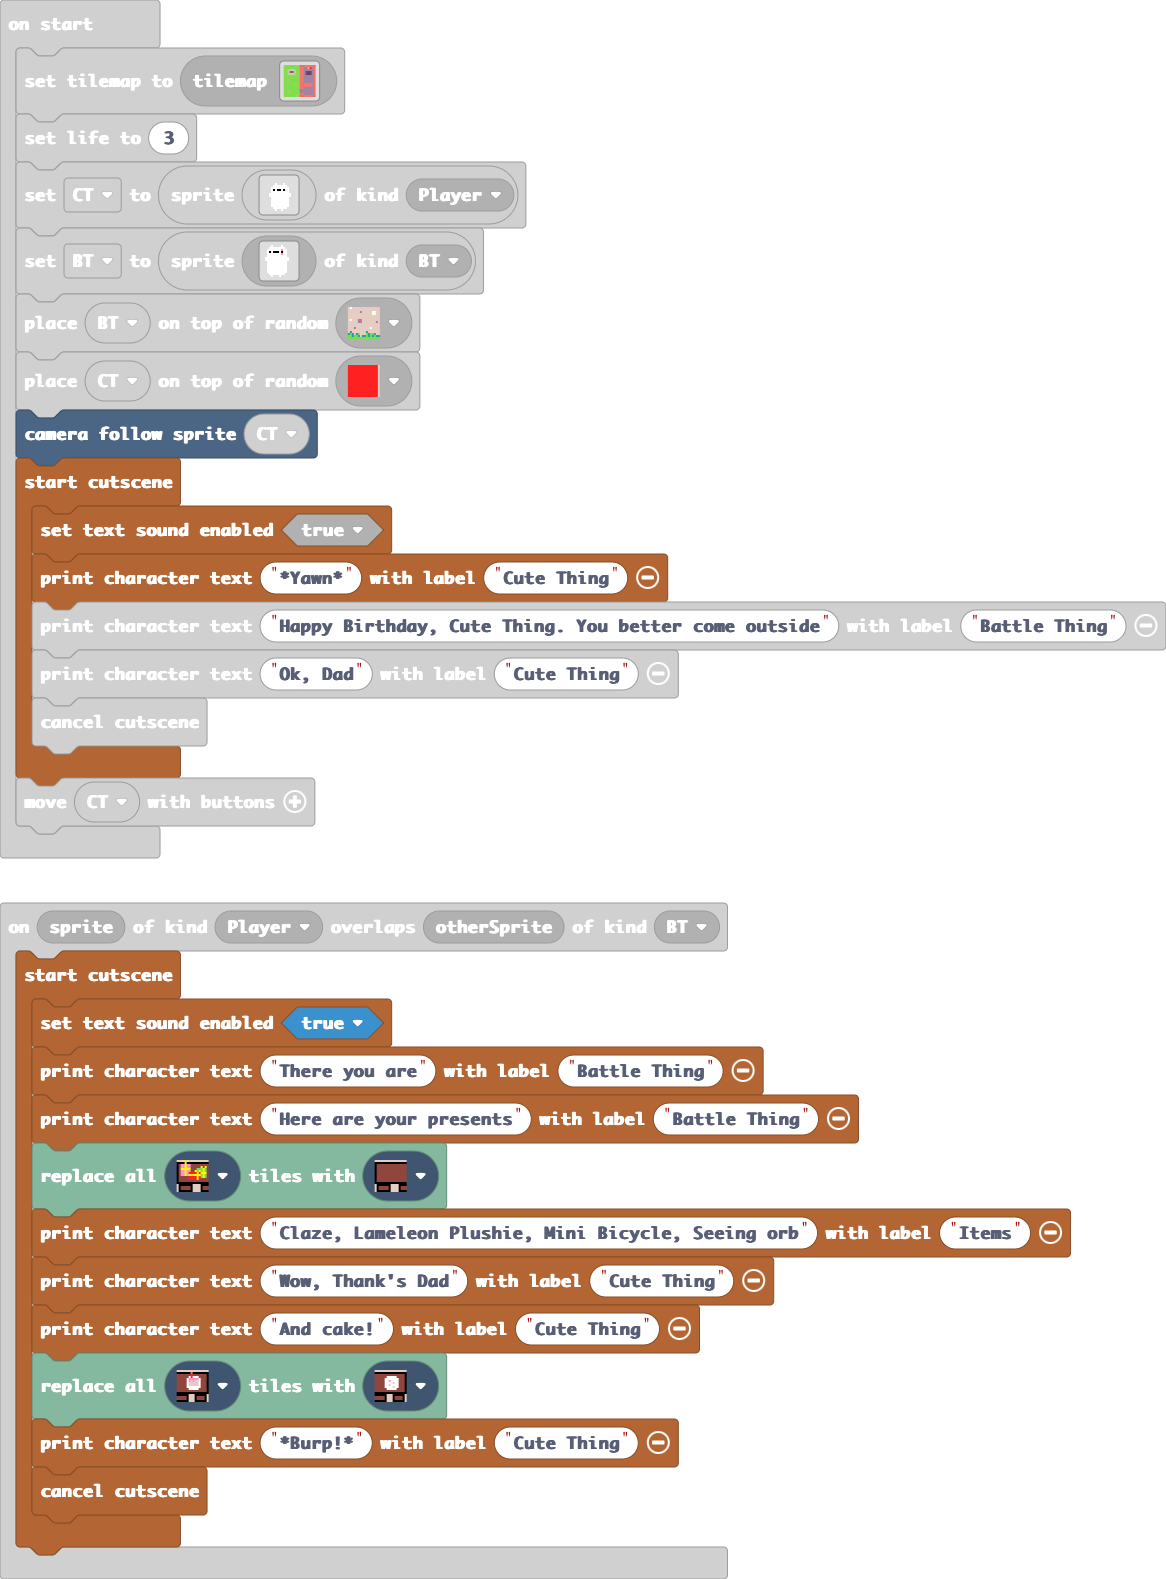
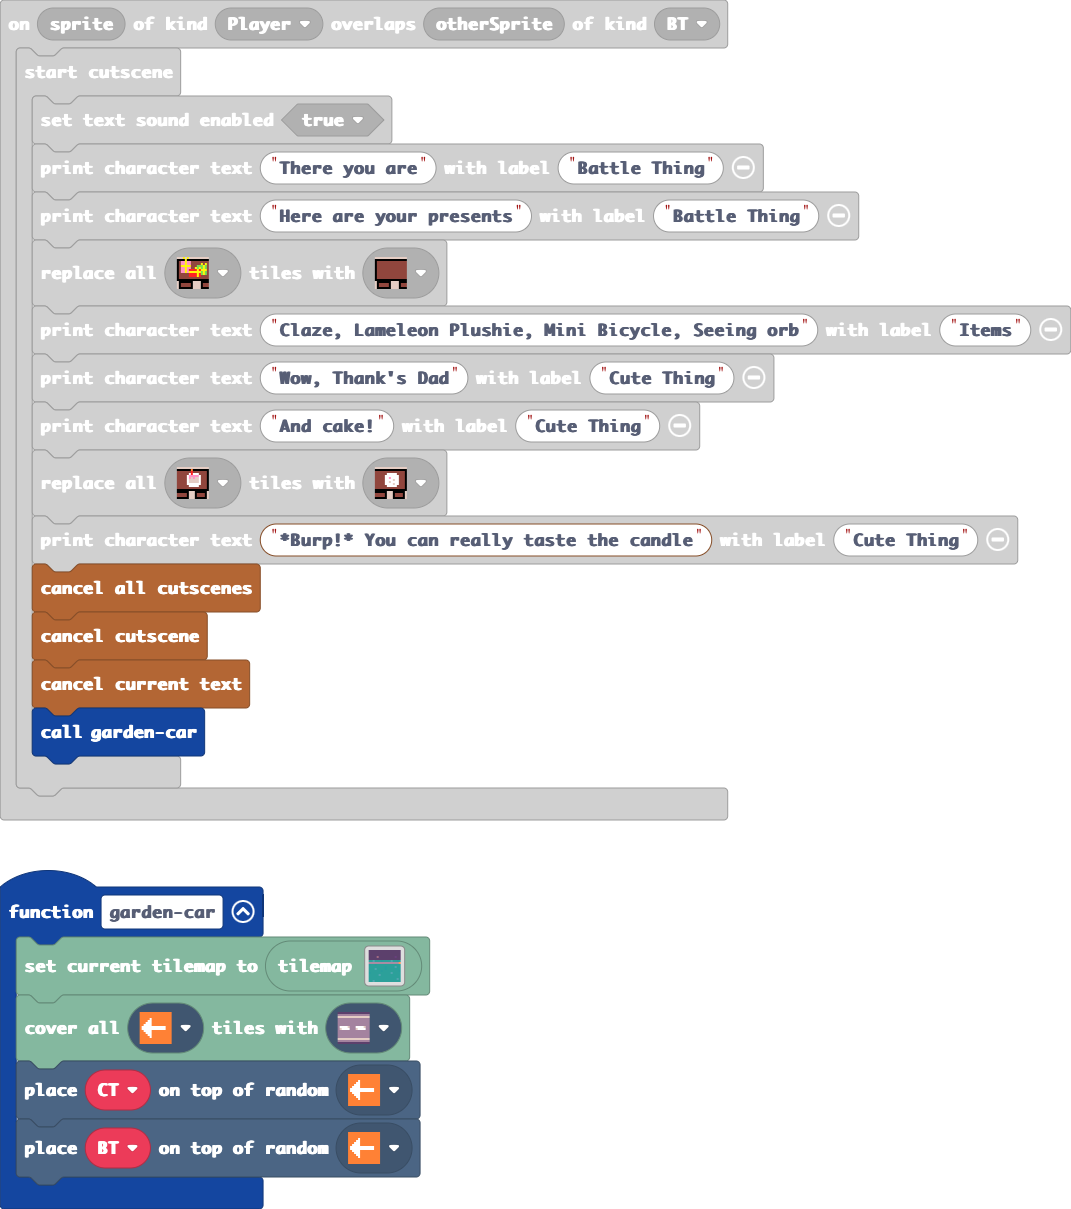
Update pxt.json, main.blocks, main.ts, tilemap.g.jres, tilemap.g.ts

diff --git a/tilemap.g.ts b/tilemap.g.ts
@@ -46,6 +46,12 @@ namespace myTiles {
     export const tile21 = image.ofBuffer(hex``);
     //% fixedInstance jres blockIdentity=images._tile
     export const tile22 = image.ofBuffer(hex``);
+    //% fixedInstance jres blockIdentity=images._tile
+    export const tile23 = image.ofBuffer(hex``);
+    //% fixedInstance jres blockIdentity=images._tile
+    export const tile24 = image.ofBuffer(hex``);
+    //% fixedInstance jres blockIdentity=images._tile
+    export const tile25 = image.ofBuffer(hex``);
 
     helpers._registerFactory("tilemap", function(name: string) {
         switch(helpers.stringTrim(name)) {
@@ -87,6 +93,63 @@ namespace myTiles {
 2 . . . . . . . 2 2 . . . . . 2 
 2 2 2 2 2 2 2 2 2 2 2 2 2 2 2 2 
 `, [myTiles.transparency16,myTiles.tile4,myTiles.tile5,myTiles.tile6,myTiles.tile3,myTiles.tile8,myTiles.tile12,myTiles.tile13,myTiles.tile14,myTiles.tile15,myTiles.tile16,myTiles.tile9,sprites.dungeon.stairSouth,sprites.dungeon.darkGroundNorthWest0,sprites.dungeon.darkGroundNorth,sprites.dungeon.darkGroundNorthEast0,sprites.dungeon.darkGroundSouthEast0,sprites.dungeon.darkGroundSouth,sprites.dungeon.darkGroundSouthWest0,myTiles.tile10,myTiles.tile11,sprites.castle.tilePath4,sprites.castle.tilePath1,sprites.castle.tilePath2,sprites.castle.tilePath3,sprites.castle.tilePath6,sprites.castle.tilePath9,sprites.castle.tilePath7,sprites.castle.tilePath8,sprites.castle.tileGrass3,myTiles.tile17,myTiles.tile20,sprites.castle.tileGrass2,sprites.castle.tileGrass1], TileScale.Sixteen);
+            case "level3":
+            case "level3":return tiles.createTilemap(hex`1000100000000000000000000000000000000000000000000000000000000000000000000000000000000000000000000000000000000000000000000000000000000000000000000000000000000000000000000000000000000000000000000000000000000000000000000000000000000000000000000000000000000000000000000000000000000000000000000000000000000000000000000000000000000000000000000000000000000000000000000000000000000000000000000000000000000000000000000000000000000000000000000000000000000000000000000000000000000000000000000000000000000000000000000000000000000000`, img`
+. . . . . . . . . . . . . . . . 
+. . . . . . . . . . . . . . . . 
+. . . . . . . . . . . . . . . . 
+. . . . . . . . . . . . . . . . 
+. . . . . . . . . . . . . . . . 
+. . . . . . . . . . . . . . . . 
+. . . . . . . . . . . . . . . . 
+. . . . . . . . . . . . . . . . 
+. . . . . . . . . . . . . . . . 
+. . . . . . . . . . . . . . . . 
+. . . . . . . . . . . . . . . . 
+. . . . . . . . . . . . . . . . 
+. . . . . . . . . . . . . . . . 
+. . . . . . . . . . . . . . . . 
+. . . . . . . . . . . . . . . . 
+. . . . . . . . . . . . . . . . 
+`, [myTiles.transparency16], TileScale.Sixteen);
+            case "level5":
+            case "level5":return tiles.createTilemap(hex`1000100000000000000000000000000000000000000000000000000000000000000000000000000000000000000000000000000000000000000000000000000000000000000000000000000000000000000000000000000000000000000000000000000000000000000000000000000000000000000000000000000000000000000000000000000000000000000000000000000000000000000000000000000000000000000000000000000000000000000000000000000000000000000000000000000000000000000000000000000000000000000000000000000000000000000000000000000000000000000000000000000000000000000000000000000000000000`, img`
+. . . . . . . . . . . . . . . . 
+. . . . . . . . . . . . . . . . 
+. . . . . . . . . . . . . . . . 
+. . . . . . . . . . . . . . . . 
+. . . . . . . . . . . . . . . . 
+. . . . . . . . . . . . . . . . 
+. . . . . . . . . . . . . . . . 
+. . . . . . . . . . . . . . . . 
+. . . . . . . . . . . . . . . . 
+. . . . . . . . . . . . . . . . 
+. . . . . . . . . . . . . . . . 
+. . . . . . . . . . . . . . . . 
+. . . . . . . . . . . . . . . . 
+. . . . . . . . . . . . . . . . 
+. . . . . . . . . . . . . . . . 
+. . . . . . . . . . . . . . . . 
+`, [myTiles.transparency16], TileScale.Sixteen);
+            case "level4":
+            case "level4":return tiles.createTilemap(hex`1000100004040404040404040404040404040404040404040404040404040404040404040404040404040404040404040404040404040404060404040404040404070404040404040404040404040404040404040303050303030203030303050303020301010101010101010101010101010108020303020303030303030303030303030303030303030303020303030305030303030305030303030203030303030303030303030303020303030303030303020203030303030303030303050303030303030303030503030303030303030303030303030303030303030303030303030303030303030303030303030303050303030503030303030303030303030303`, img`
+. . . . . . . . . . . . . . . . 
+. . . . . . . . . . . . . . . . 
+. . . . . . . . . . . . . . . . 
+. . . . . . . . . . . . . . . . 
+. . . . . . . . . . . . . . . . 
+2 2 2 2 2 2 2 2 2 2 2 2 2 2 2 2 
+. . . . . . . . . . . . . . . . 
+2 2 2 2 2 2 2 2 2 2 2 2 2 2 2 2 
+2 2 2 2 2 2 2 2 2 2 2 2 2 2 2 2 
+2 2 2 2 2 2 2 2 2 2 2 2 2 2 2 2 
+2 2 2 2 2 2 2 2 2 2 2 2 2 2 2 2 
+2 2 2 2 2 2 2 2 2 2 2 2 2 2 2 2 
+2 2 2 2 2 2 2 2 2 2 2 2 2 2 2 2 
+2 2 2 2 2 2 2 2 2 2 2 2 2 2 2 2 
+2 2 2 2 2 2 2 2 2 2 2 2 2 2 2 2 
+2 2 2 2 2 2 2 2 2 2 2 2 2 2 2 2 
+`, [myTiles.transparency16,sprites.vehicle.roadHorizontal,sprites.castle.tileDarkGrass3,sprites.castle.tileDarkGrass1,myTiles.tile23,sprites.castle.tileDarkGrass2,myTiles.tile24,myTiles.tile25,tiles.util.arrow4], TileScale.Sixteen);
         }
         return null;
     })
@@ -138,6 +201,12 @@ namespace myTiles {
             case "tile21":return tile21;
             case "myTile20":
             case "tile22":return tile22;
+            case "myTile21":
+            case "tile23":return tile23;
+            case "myTile22":
+            case "tile24":return tile24;
+            case "myTile23":
+            case "tile25":return tile25;
         }
         return null;
     })

diff --git a/main.ts b/main.ts
@@ -92,6 +92,12 @@ controller.left.onEvent(ControllerButtonEvent.Pressed, function () {
 scene.onOverlapTile(SpriteKind.Player, assets.tile`myTile18`, function (sprite, location) {
     tiles.replaceAllTiles(assets.tile`myTile18`, assets.tile`myTile17`)
 })
+function gardencar () {
+    tiles.loadMap(tiles.createMap(tilemap`level4`))
+    tiles.coverAllTiles(tiles.util.arrow4, sprites.vehicle.roadHorizontal)
+    tiles.placeOnRandomTile(CT, tiles.util.arrow4)
+    tiles.placeOnRandomTile(BT, tiles.util.arrow4)
+}
 controller.right.onEvent(ControllerButtonEvent.Pressed, function () {
     characterAnimations.runFrames(
     CT,
@@ -186,15 +192,19 @@ sprites.onOverlap(SpriteKind.Player, SpriteKind.BT, function (sprite, otherSprit
         story.printCharacterText("Wow, Thank's Dad", "Cute Thing")
         story.printCharacterText("And cake!", "Cute Thing")
         tiles.replaceAllTiles(assets.tile`myTile9`, assets.tile`myTile20`)
-        story.printCharacterText("*Burp!*", "Cute Thing")
+        story.printCharacterText("*Burp!* You can really taste the candle", "Cute Thing")
+        story.cancelAllCutscenes()
         story.cancelCurrentCutscene()
+        story.clearAllText()
+        gardencar()
     })
 })
+let BT: Sprite = null
 let CT: Sprite = null
 tiles.setCurrentTilemap(tilemap`home`)
 info.setLife(3)
 CT = sprites.create(assets.image`CT`, SpriteKind.Player)
-let BT = sprites.create(img`
+BT = sprites.create(img`
     . . . . 1 . . . . 1 . . . . . . 
     . . . 1 1 1 1 1 1 1 1 . . . . . 
     . . 1 1 1 1 1 1 1 3 1 1 . . . . 
